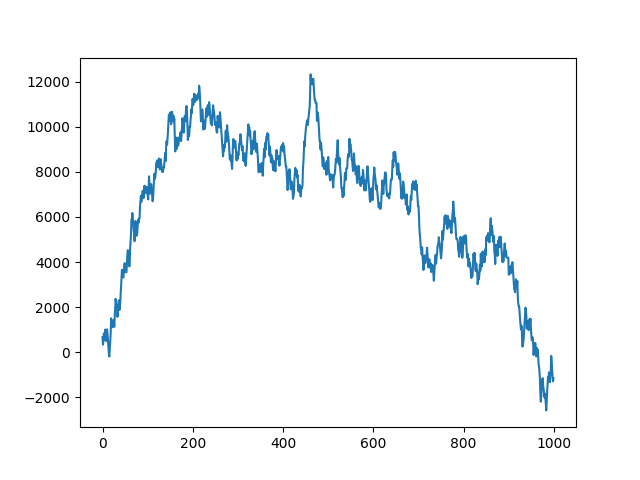
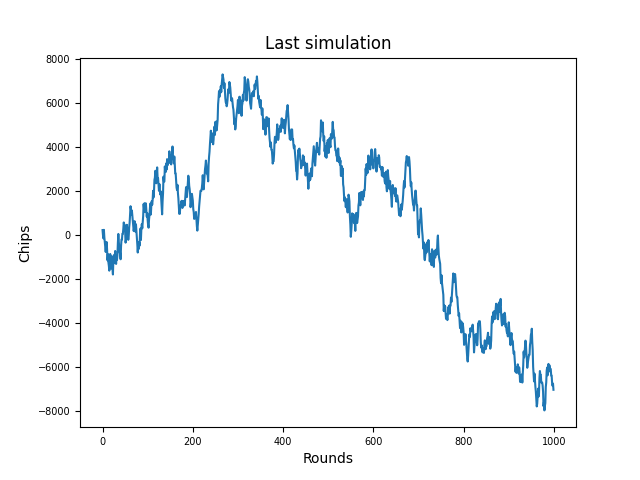
Update Statistics

diff --git a/simulation_gui.py b/simulation_gui.py
@@ -1,30 +1,42 @@
-from tkinter.constants import S
 from blackjack_logic import Game
 from ai import AI
-import matplotlib.pyplot as plt
+import tkinter as tk
 from tkinter import ttk
 from tkinter import messagebox
-import tkinter as tk
+import matplotlib.pyplot as plt
 import json
 import os
 
-class Picture(tk.Label):
-    def __init__(self, master):
-        super().__init__(master) 
-        self.configure(bd=0)
-        
-    def update(self, file_name):
-        self.img = tk.PhotoImage(file=file_name)
-        self.configure(image=self.img)
-
 class Statistics_frame(tk.Frame):
-    def __init__(self, master):
+    """A statisztikai adatok megjelenését definiálja az osztály."""
+    def __init__(self, master) -> None:
         super().__init__(master)
-        tk.Label(self, background='white', text='hehe').grid(row=0, column=0)
-        tk.Label(self, background='white', text='hehe').grid(row=1, column=0)
-        
+        self.configure(background='white')
+
+    def update(self, data:dict) -> None:
+        """Egy szimuláció adatait jeleníti meg.
+
+        Args:
+            data (dict): A szimuláció adatai.
+        """
+        self._img = tk.PhotoImage(file=data["plot_img"])
+        img_widget = tk.Label(self, image=self._img, bd=0)
+        text_frame = tk.Frame(self, background='white')
+        padding = 20
+        img_widget.configure()
+        tk.Label(text_frame, text=f'Number of decks: {data["deck_count"]}', background='white').grid(padx=padding, row=0, column=0)
+        tk.Label(text_frame, text=f'Minimum bet: {data["min_bet"]}', background='white').grid(padx=padding, row=0, column=1)
+        tk.Label(text_frame, text=f'Maximum bet: {data["max_bet"]}', background='white').grid(padx=padding, row=0, column=2)
+        tk.Label(text_frame, text=f'Starting chips: {data["chips"]}', background='white').grid(padx=padding, row=1, column=0)
+        tk.Label(text_frame, text=f'Basic strategy: {"on" if data["basic_strategy"] else "off"}', background='white').grid(padx=padding, row=1, column=1)
+        tk.Label(text_frame, text=f'Card counting: {"off" if data["bet_system"] == False else data["bet_system"]}', background='white').grid(padx=padding, row=1, column=2)
+        tk.Label(text_frame, text=f'After {data["rounds"]} rounds, the value of the chips is {data["history"][- 1]}.', background='white').grid(padx=padding, row=3, columnspan=3)
+        img_widget.grid(row=0, column=0)
+        text_frame.grid(row=1, column=0)
+
 class Form_frame(tk.Frame):
-    def __init__(self, master):
+    """Új szimuláció számára fenntartott beviteli mezők megjelenését definiálja az osztály."""
+    def __init__(self, master) -> None:
         super().__init__(master)
         self._padding=15
         self.configure(background='white')
@@ -35,22 +47,22 @@ class Form_frame(tk.Frame):
         tk.Label(self, text="Decks: ").grid(sticky='w', row=1, column=0)
         tk.Spinbox(self, textvariable=self.decks_var, width=2, from_=1, to=8).grid(pady=self._padding, sticky='w', row=1, column=1)
 
-        self.laps_var = tk.IntVar(self, value=1000)
-        tk.Label(self, text="Laps: ").grid(sticky='w', row=2, column=0)
-        tk.Spinbox(self, textvariable=self.laps_var, width=7, from_=1, to=1000000, increment=100).grid(pady=self._padding, sticky='w', row=2, column=1)
+        self.rounds_var = tk.IntVar(self, value=1000)
+        tk.Label(self, text="Rounds: ").grid(sticky='w', row=2, column=0)
+        tk.Spinbox(self, textvariable=self.rounds_var, width=7, from_=1, to=100000, increment=100).grid(pady=self._padding, sticky='w', row=2, column=1)
 
         self.minimum_bet_var = tk.IntVar(self, value=100)
         tk.Label(self, text="Minimum bet: ").grid(sticky='w', row=3, column=0)
-        tk.Spinbox(self, textvariable=self.minimum_bet_var, width=7, from_=100, to=999999, increment=100).grid(pady=self._padding, sticky='w', row=3, column=1)
+        tk.Spinbox(self, textvariable=self.minimum_bet_var, width=7, from_=100, to=99999, increment=100).grid(pady=self._padding, sticky='w', row=3, column=1)
         
         self.maximum_bet_var = tk.IntVar(self, value=400)
         tk.Label(self, text="Maximum bet: ").grid(sticky='w', row=4, column=0)
-        tk.Spinbox(self, textvariable=self.maximum_bet_var, width=7, from_=101, to=1000000, increment=100).grid(pady=self._padding, sticky='w', row=4, column=1)
+        tk.Spinbox(self, textvariable=self.maximum_bet_var, width=7, from_=101, to=100000, increment=100).grid(pady=self._padding, sticky='w', row=4, column=1)
 
         self.chips_var = tk.IntVar(self, value=500)
         tk.Label(self, text="Chips: ").grid(sticky='w', row=5, column=0)
         tk.Label(self, textvariable=self.chips_var, width=5).grid(sticky='e', row=5, column=2)
-        tk.Scale(self, variable=self.chips_var, orient='horizontal', troughcolor='white', bd=5, showvalue=0, from_=100, to=10000, resolution=100).grid(pady=self._padding, sticky='w', row=5, column=1)
+        tk.Scale(self, variable=self.chips_var, orient='horizontal', troughcolor='white', showvalue=0, from_=100, to=10000, resolution=100).grid(pady=self._padding, sticky='w', row=5, column=1)
 
         self.basic_strategy_state = tk.BooleanVar(self, value=True)
         tk.Label(self, text="Basic strategy: ").grid(sticky='w', row=6, column=0)
@@ -65,73 +77,91 @@ class Form_frame(tk.Frame):
         for widget in self.grid_slaves():
             widget.configure(background='white', bd=0)
     
-    def get_counting_system_names(self): 
+    def _get_counting_system_names(self) -> list:
+        """Visszaadja azoknak lapszámolási technikák nevét, amik megtalálhatóak az erre létrehozott mappában.
+        
+        Returns:
+            list: A lapszámolási technikák neveinek a listája.
+        """
         return [os.path.splitext(f)[0] for f in os.listdir('basic_data/counting_systems')]
 
-    def _select_system(self):
+    def _select_system(self) -> None:
+        """Ha be van állítva a lapszámolás, akkor ki lehet választani, hogy melyik technika legyen alkalmazva a szimuláció során."""
         if self.card_counter_state.get():
             self._counting_system_label = tk.Label(self, background='white', text="System: ")
             self._counting_system_label.grid(sticky='w', row=8, column=0)
-            self._counting_system_combobox= ttk.Combobox(self, width=10, state='readonly', textvariable=self.counting_system_var, values=self.get_counting_system_names())
+            self._counting_system_combobox= ttk.Combobox(self, width=10, state='readonly', textvariable=self.counting_system_var, values=self._get_counting_system_names())
             self._counting_system_combobox.current(0)
             self._counting_system_combobox.grid(pady=self._padding, row=8, column=1)
         else:
             self._counting_system_label.destroy()
             self._counting_system_combobox.destroy()
 
-
 class Simulation_window(tk.Tk):
-    def __init__(self):
+    """Egy ablakot definiál, ami ha van régebbi szimulációs adat akkor annak a statisztikáját jeleníti meg és, emelett új szimulációra is ad lehetőséget."""
+    def __init__(self) -> None:
         super().__init__()
         self.title('Epic blackjack simulator')
-        self.configure(background='white')
+        self.configure(background='white', padx=15, pady=15)
         self.resizable(False,False)
-
         style = ttk.Style()
         style.map('TCombobox', fieldbackground=[('readonly','white')])
         style.map('TCombobox', selectbackground=[('readonly', 'white')])
         style.map('TCombobox', selectforeground=[('readonly', 'black')])
 
-        self._statistics_img = Picture(self)
-        self._statistics_img.grid(row=0, column=0)
         self._save_file = 'save/last_statistics.json'
-        
+        self._statistics_frame = Statistics_frame(self)
+        self._statistics_frame.grid(column=0, rowspan=2)
         if os.path.isfile(self._save_file): 
             self._last_data = self._load_last_statistics()
-            self._statistics_img.update(self._last_data['plot_img'])
+            self._statistics_frame.update(self._last_data)
 
-        #self._statistics_frame = Statistics_frame(self)
-        #self._statistics_frame.grid(row=1, column=0)
-        
         self._form_frame = Form_frame(self)
-        self._form_frame.grid(sticky='n', row=0, column=1, padx=20)
+        self._form_frame.grid(row=0, column=1, padx=20)
 
-        tk.Button(self, text='Simulate game', background='white', command=self._new_simulation).grid(sticky='wen', row=1, column=1, padx=20)
+        tk.Button(self._form_frame, text='Simulate game', background='white', command=self._new_simulation).grid(sticky='we', row=9, columnspan=3, padx=20, pady=15)
 
-    def _plot(self, stat:list, file_name:str):
+    def _plot(self, stat:list, file_name:str) -> None:
+        """Grafikon formájában menti el, hogy a szimúláció során a játékosnak a körök után mennyi zsetonja volt.
+        
+        Args:
+            stat (list): A körök utáni zseton mennyiségek.
+            file_name (str): Megadja, hogy milyen néven legyen elmentve a grafikon képe.
+        """
         fig, ax = plt.subplots()
+        ax.tick_params(axis='both', which='major', labelsize=7)
+        ax.set_xlabel('Rounds')
+        ax.set_title('Last simulation')
+        ax.set_ylabel('Chips')
         ax.plot(stat)
         fig.savefig(file_name)
 
-    def _save_statistics(self, file_name:str): 
-        with open(file_name, "wt") as f:
+    def _save_statistics(self) -> None: 
+        """JSON formátumban elmenti a szimuláció adatait."""
+        with open(self._save_file, "wt") as f:
             json.dump(self._last_data, f)
 
-    def _load_last_statistics(self):
+    def _load_last_statistics(self) -> dict:
+        """Betölti az utolsó szimuláció adatait.
+        
+        Returns:
+            dict: A szimuláció adatai.
+        """
         with open(self._save_file) as f:
             return json.load(f)
 
-    def _simulation(self):
+    def _simulation(self) -> None:
+        """Leszimulál egy játékot a megadott adatok alapján, majd elmenti azt."""
         history = []
         decks = self._form_frame.decks_var.get()
-        laps = self._form_frame.laps_var.get() 
+        rounds = self._form_frame.rounds_var.get() 
         min_bet = self._form_frame.minimum_bet_var.get()
         max_bet = self._form_frame.maximum_bet_var.get()
         chips = self._form_frame.chips_var.get()
         system_state = self._form_frame.card_counter_state.get()
         system = self._form_frame.counting_system_var.get()
 
-        if laps > 1000000: raise Exception('Invalid laps value')
+        if rounds > 100000: raise Exception('Invalid rounds value')
         else:
             basic_strategy = self._form_frame.basic_strategy_state.get()
             ai = AI(chips)
@@ -139,7 +169,7 @@ class Simulation_window(tk.Tk):
             if system_state: ai.set_card_counter(system)
             if basic_strategy: ai.set_basic_strategy()
  
-            for i in range(laps): 
+            for i in range(rounds): 
                 g.round()
                 history.append(g.get_player_chips_value())
 
@@ -148,23 +178,22 @@ class Simulation_window(tk.Tk):
 
             self._last_data = {
                 "deck_count": decks,
-                "laps": laps,
+                "rounds": rounds,
                 "min_bet": min_bet,
                 "max_bet": max_bet,
                 "chips": chips,
-                "Basic_strategy": basic_strategy,
+                "basic_strategy": basic_strategy,
                 "bet_system": system if system_state else system_state,
                 "history": history,
                 "plot_img": plot_fname
             }
-            self._save_statistics(self._save_file)
-            self._statistics_img.update(plot_fname)
+            self._save_statistics()
+            self._statistics_frame.update(self._last_data)
 
-    def _new_simulation(self):
-        try:
-            self._simulation()
-        except Exception as e:
-            messagebox.showerror('Error', e)
+    def _new_simulation(self) -> None:
+        """Ha hiba nélkül futtatható a szimuláció akkor lefuttatja, ha nem, akkor hibaüzenet formájában értésíti a felhasználót a probléma okáról."""
+        try: self._simulation()
+        except Exception as e: messagebox.showerror('Error', e)
 
 if __name__ == '__main__':
     w = Simulation_window()
